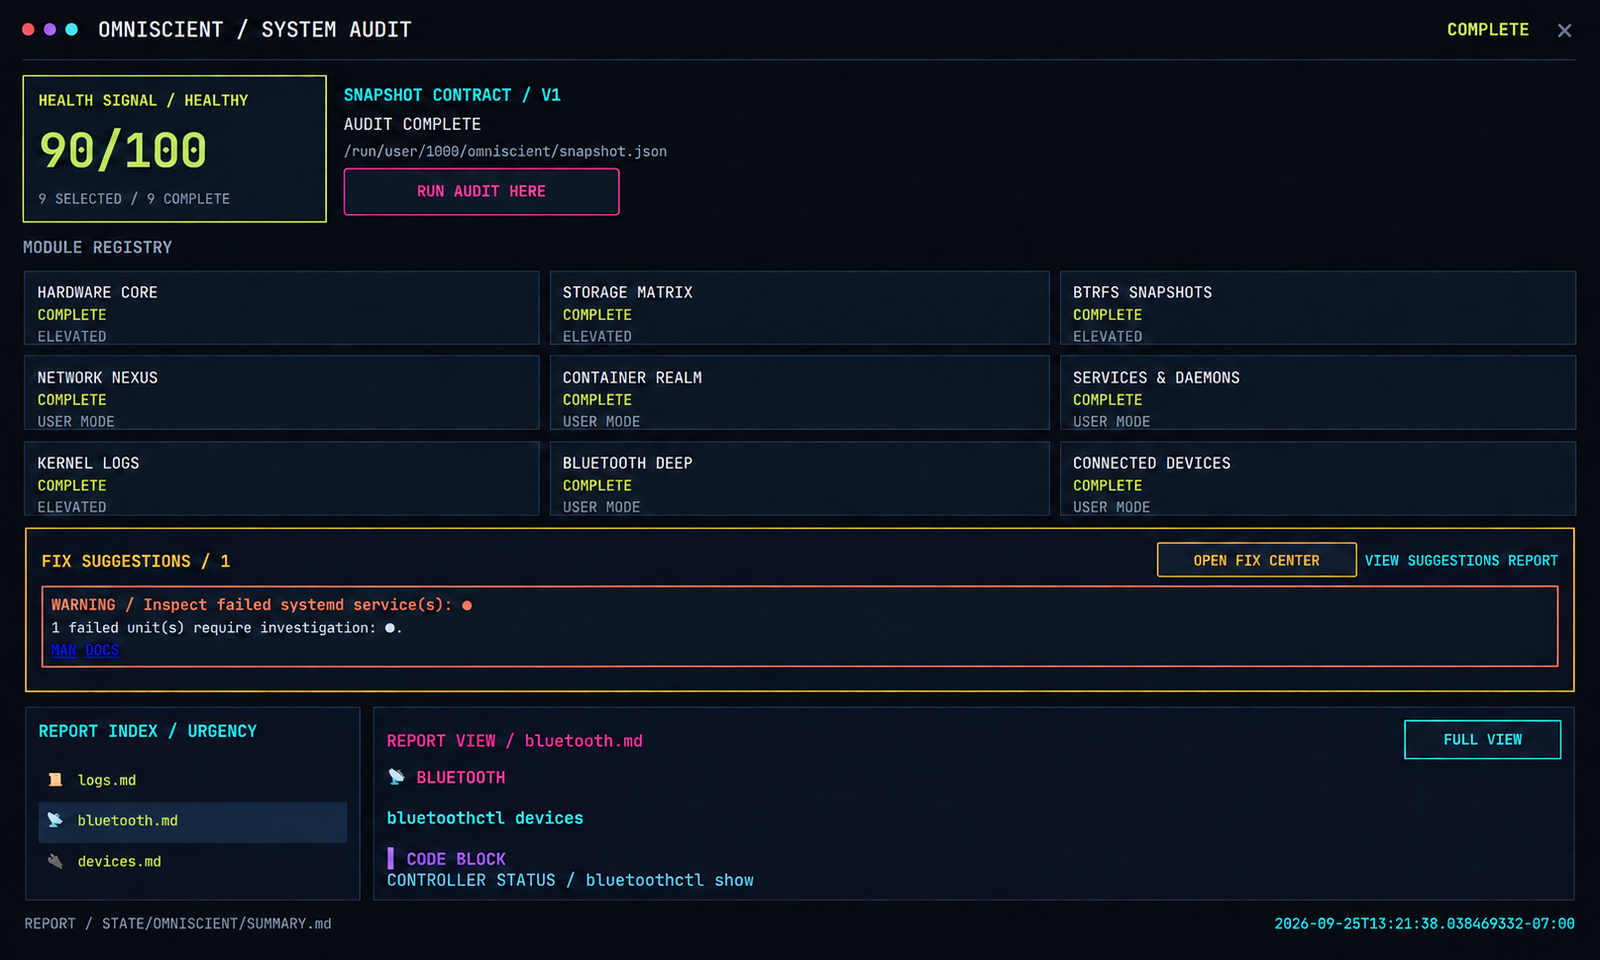
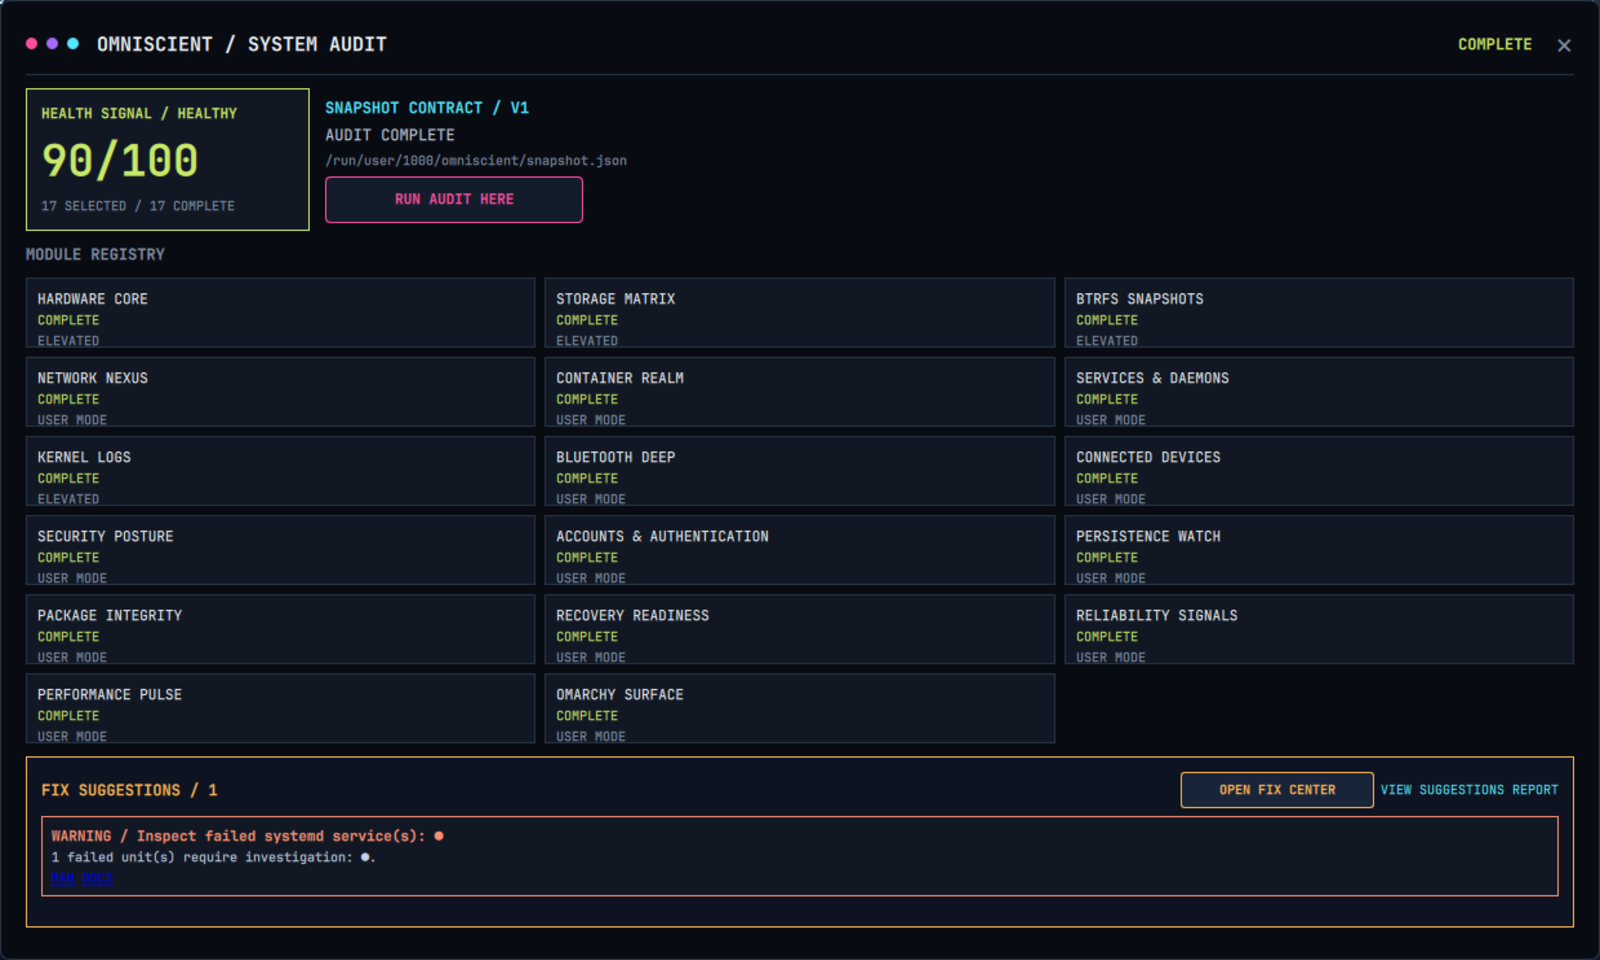
feat(packages): improve integrity report and showcase

diff --git a/src/modules.rs b/src/modules.rs
@@ -1,4 +1,5 @@
 use anyhow::{Context, Result};
+use std::collections::BTreeMap;
 use std::fs::File;
 use std::io::Write;
 use std::path::Path;
@@ -675,14 +676,188 @@ impl AuditModule for PackageIntegrity {
             "packages.md",
             "PACKAGE INTEGRITY",
             &[
-                ("pacman -Qu", capture("pacman", &["-Qu"])),
-                ("pacman -Qdtq", capture("pacman", &["-Qdtq"])),
-                ("pacman -Qm", capture("pacman", &["-Qm"])),
-                ("pacman -Qkk", capture("pacman", &["-Qkk"])),
-                ("flatpak list --app", capture("flatpak", &["list", "--app"])),
-                ("snap list", capture("snap", &["list"])),
+                (
+                    "installed packages / repository categories / versions",
+                    package_repository_report(),
+                ),
+                ("update status", pacman_updates_report()),
+                ("explicitly installed packages", capture("pacman", &["-Qe"])),
+                ("orphan candidates", capture("pacman", &["-Qdtq"])),
+                (
+                    "foreign packages / AUR candidates",
+                    capture("pacman", &["-Qm"]),
+                ),
+                ("package file integrity", capture("pacman", &["-Qkk"])),
+                (
+                    "flatpak applications / versions",
+                    capture(
+                        "flatpak",
+                        &[
+                            "list",
+                            "--app",
+                            "--columns=application,version,branch,origin",
+                        ],
+                    ),
+                ),
+                ("snap packages / versions", capture("snap", &["list"])),
+                (
+                    "omarchy package surface",
+                    capture("pacman", &["-Qs", "omarchy"]),
+                ),
             ],
         )
+    }
+}
+
+fn command_stdout(command: &str, args: &[&str]) -> Option<String> {
+    let executable = crate::pathcheck::resolve(command)?;
+    let output = Command::new(executable).args(args).output().ok()?;
+    if !output.status.success() {
+        return None;
+    }
+    Some(String::from_utf8_lossy(&output.stdout).into_owned())
+}
+
+fn pacman_updates_report() -> String {
+    let Some(executable) = crate::pathcheck::resolve("pacman") else {
+        return "_pacman: not installed, skipped_\n".to_string();
+    };
+    match Command::new(executable).args(["-Qu"]).output() {
+        Ok(output) => {
+            let stdout = String::from_utf8_lossy(&output.stdout);
+            let stderr = String::from_utf8_lossy(&output.stderr);
+            if output.status.code() == Some(1)
+                && stdout.trim().is_empty()
+                && stderr.trim().is_empty()
+            {
+                return "No package updates are currently reported by pacman.\n".to_string();
+            }
+
+            let mut report = stdout.into_owned();
+            if !output.status.success() {
+                report.push_str(&format!("\n_[pacman exited with {}]_\n", output.status));
+                if !stderr.trim().is_empty() {
+                    report.push_str(&format!("```\n{}\n```\n", stderr.trim()));
+                }
+            }
+            if report.trim().is_empty() {
+                report.push_str("_pacman returned no update data._\n");
+            }
+            report
+        }
+        Err(error) => format!("_pacman: failed to run ({error})_\n"),
+    }
+}
+
+fn package_repository_report() -> String {
+    let Some(installed_output) = command_stdout("pacman", &["-Q"]) else {
+        return "Package inventory is unavailable; pacman did not return installed package data.\n"
+            .to_string();
+    };
+
+    let mut installed = BTreeMap::new();
+    for line in installed_output.lines() {
+        let mut fields = line.split_whitespace();
+        let Some(name) = fields.next() else {
+            continue;
+        };
+        let Some(version) = fields.next() else {
+            continue;
+        };
+        installed.insert(name.to_string(), version.to_string());
+    }
+
+    let mut repositories = BTreeMap::new();
+    if let Some(repo_output) = command_stdout("pacman", &["-Sl"]) {
+        for line in repo_output.lines() {
+            let mut fields = line.split_whitespace();
+            let Some(repository) = fields.next() else {
+                continue;
+            };
+            let Some(name) = fields.next() else {
+                continue;
+            };
+            if !installed.contains_key(name) {
+                continue;
+            }
+
+            let category = package_repository_category(repository);
+            let replace = repositories
+                .get(name)
+                .map(|existing: &String| {
+                    package_repository_priority(existing) < package_repository_priority(&category)
+                })
+                .unwrap_or(true);
+            if replace {
+                repositories.insert(name.to_string(), category);
+            }
+        }
+    }
+
+    let mut categories: BTreeMap<String, Vec<String>> = BTreeMap::new();
+    for (name, version) in installed {
+        let category = repositories
+            .get(&name)
+            .cloned()
+            .unwrap_or_else(|| "AUR / FOREIGN".to_string());
+        categories
+            .entry(category)
+            .or_default()
+            .push(format!("{name} {version}"));
+    }
+
+    let mut report = String::new();
+    report.push_str("Repository origin is inferred from pacman's local sync metadata; pacman marks unlisted packages as foreign, which can include AUR or locally built packages.\n\n");
+    for category in [
+        "ARCH OFFICIAL",
+        "OMARCHY",
+        "BLACKARCH",
+        "CHAOTIC AUR",
+        "AUR / FOREIGN",
+    ] {
+        let packages = categories.remove(category).unwrap_or_default();
+        report.push_str(&format!("{category} / {} package(s)\n", packages.len()));
+        if packages.is_empty() {
+            report.push_str("  None detected.\n\n");
+        } else {
+            for package in packages {
+                report.push_str("  ");
+                report.push_str(&package);
+                report.push('\n');
+            }
+            report.push('\n');
+        }
+    }
+
+    for (category, packages) in categories {
+        report.push_str(&format!("{category} / {} package(s)\n", packages.len()));
+        for package in packages {
+            report.push_str("  ");
+            report.push_str(&package);
+            report.push('\n');
+        }
+        report.push('\n');
+    }
+    report
+}
+
+fn package_repository_category(repository: &str) -> String {
+    match repository.to_ascii_lowercase().as_str() {
+        "omarchy" => "OMARCHY".to_string(),
+        "blackarch" => "BLACKARCH".to_string(),
+        "chaotic-aur" | "chaotic" => "CHAOTIC AUR".to_string(),
+        "core" | "extra" | "multilib" => "ARCH OFFICIAL".to_string(),
+        other => format!("REPOSITORY / {}", other.to_ascii_uppercase()),
+    }
+}
+
+fn package_repository_priority(category: &str) -> u8 {
+    match category {
+        "CHAOTIC AUR" => 5,
+        "BLACKARCH" => 4,
+        "OMARCHY" => 3,
+        "ARCH OFFICIAL" => 2,
+        _ => 1,
     }
 }
 

diff --git a/README.md b/README.md
@@ -32,25 +32,25 @@ and filesystem identifiers have been removed from the public previews.
 <table>
   <tr>
     <td width="50%"><img src="assets/screenshots/omniscient-01-system-audit.png" alt="Omniscient system audit overview"></td>
-    <td width="50%"><img src="assets/screenshots/omniscient-02-bluetooth-report.png" alt="Omniscient Bluetooth report viewer"></td>
+    <td width="50%"><img src="assets/screenshots/omniscient-02-fix-center.png" alt="Omniscient Fix Center repair controls"></td>
   </tr>
   <tr>
     <td align="center"><sub>SYSTEM AUDIT / MODULE REGISTRY</sub></td>
-    <td align="center"><sub>REPORT READER / BLUETOOTH</sub></td>
-  </tr>
-  <tr>
-    <td width="50%"><img src="assets/screenshots/omniscient-03-fix-center.png" alt="Omniscient Fix Center repair controls"></td>
-    <td width="50%"><img src="assets/screenshots/omniscient-04-logs-report.png" alt="Omniscient sanitized logs report"></td>
-  </tr>
-  <tr>
     <td align="center"><sub>FIX CENTER / MANUAL OR AUTHORIZED REPAIR</sub></td>
-    <td align="center"><sub>REPORT READER / LOG SIGNAL</sub></td>
   </tr>
   <tr>
-    <td colspan="2" align="center"><img src="assets/screenshots/omniscient-05-snapshots-report.png" alt="Omniscient Btrfs snapshots report"></td>
+    <td width="50%"><img src="assets/screenshots/omniscient-03-suggestions-report.png" alt="Omniscient fix suggestions report viewer"></td>
+    <td width="50%"><img src="assets/screenshots/omniscient-04-storage-report.png" alt="Omniscient sanitized storage report"></td>
   </tr>
   <tr>
-    <td colspan="2" align="center"><sub>REPORT READER / BTRFS SNAPSHOTS</sub></td>
+    <td align="center"><sub>REPORT READER / FIX SUGGESTIONS</sub></td>
+    <td align="center"><sub>REPORT READER / STORAGE MATRIX</sub></td>
+  </tr>
+  <tr>
+    <td colspan="2" align="center"><img src="assets/screenshots/omniscient-05-package-integrity.png" alt="Omniscient package integrity report"></td>
+  </tr>
+  <tr>
+    <td colspan="2" align="center"><sub>REPORT READER / PACKAGE INTEGRITY</sub></td>
   </tr>
 </table>
 
